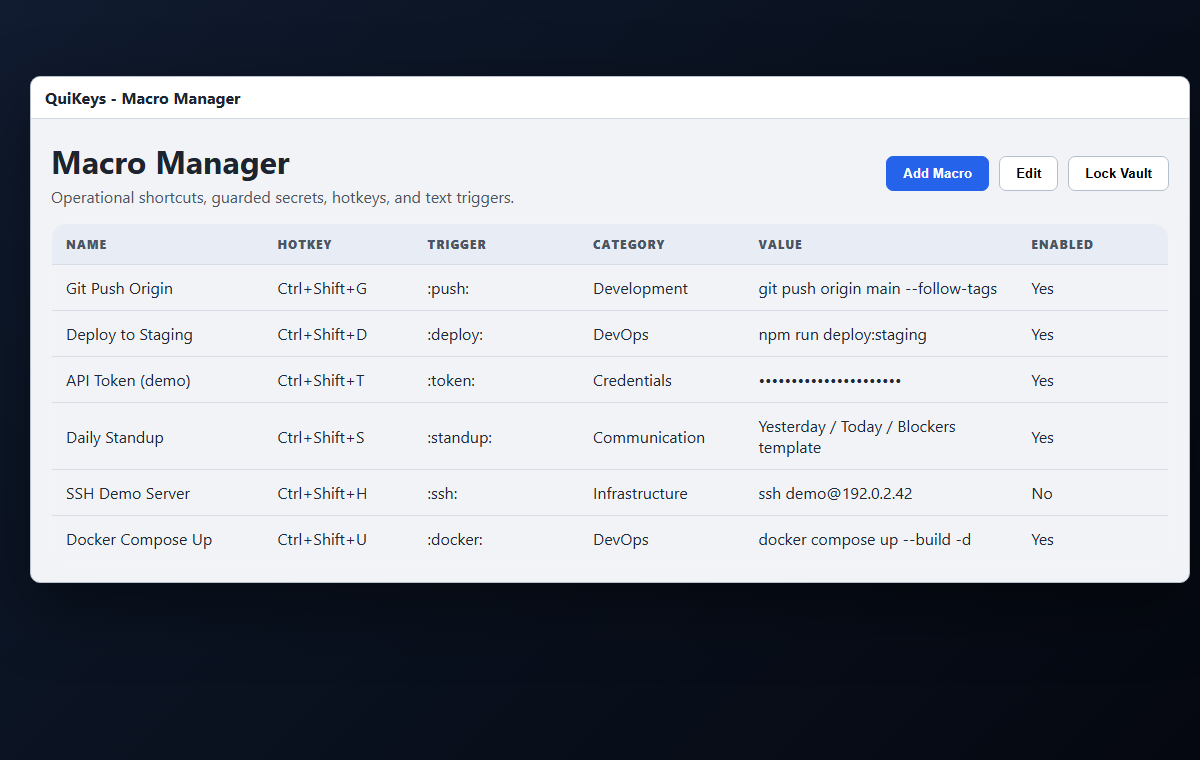
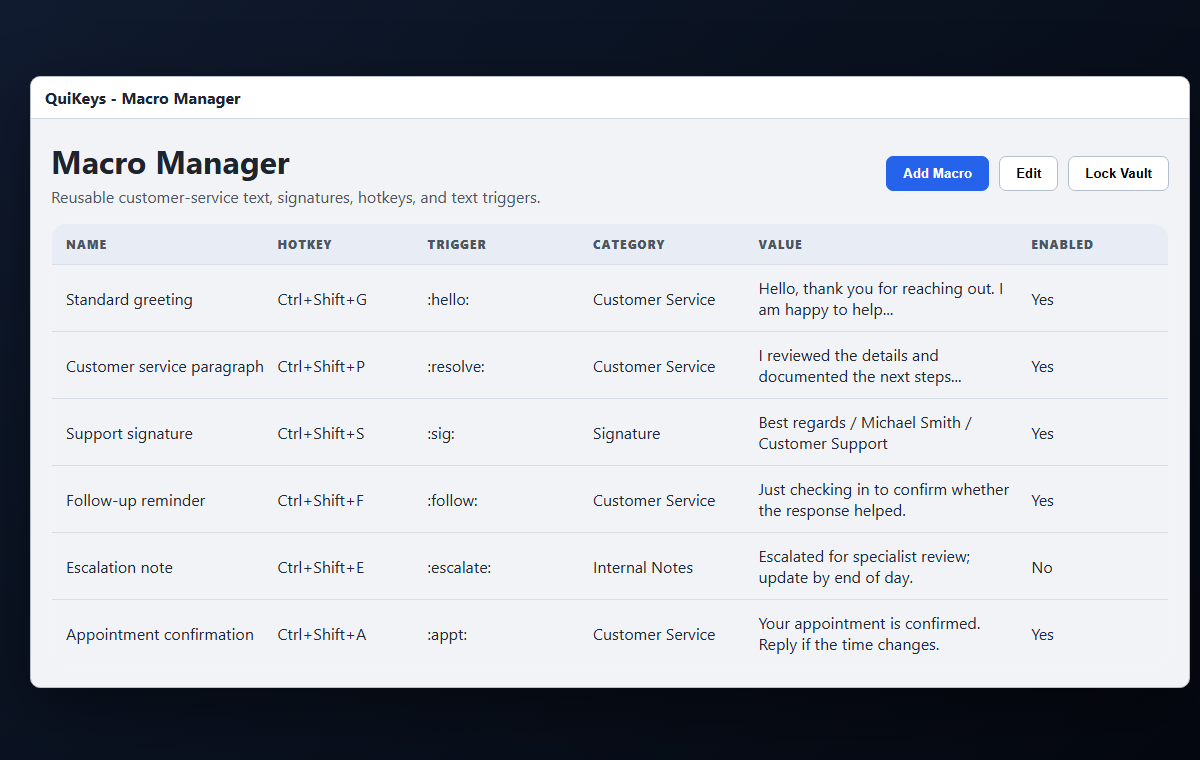
Deploy QuiKeys service snippet portfolio update

diff --git a/app.js b/app.js
@@ -1,6 +1,6 @@
 // Client-side renderer for the recruiter-facing product portfolio microsite.
 
-import { PORTFOLIO_APPS } from './data/apps.mjs?v=20260523-mbl2pc-pc-label';
+import { PORTFOLIO_APPS } from './data/apps.mjs?v=20260523-quikeys-service-snippets';
 
 function createFeatureImage(feature, app) {
   if (!feature.imagePath) {

diff --git a/index.html b/index.html
@@ -47,6 +47,6 @@
       <section id="portfolio-apps" class="portfolio-apps" aria-label="Application portfolio"></section>
     </main>
 
-    <script type="module" src="./app.js?v=20260523-mbl2pc-pc-label"></script>
+    <script type="module" src="./app.js?v=20260523-quikeys-service-snippets"></script>
   </body>
 </html>
